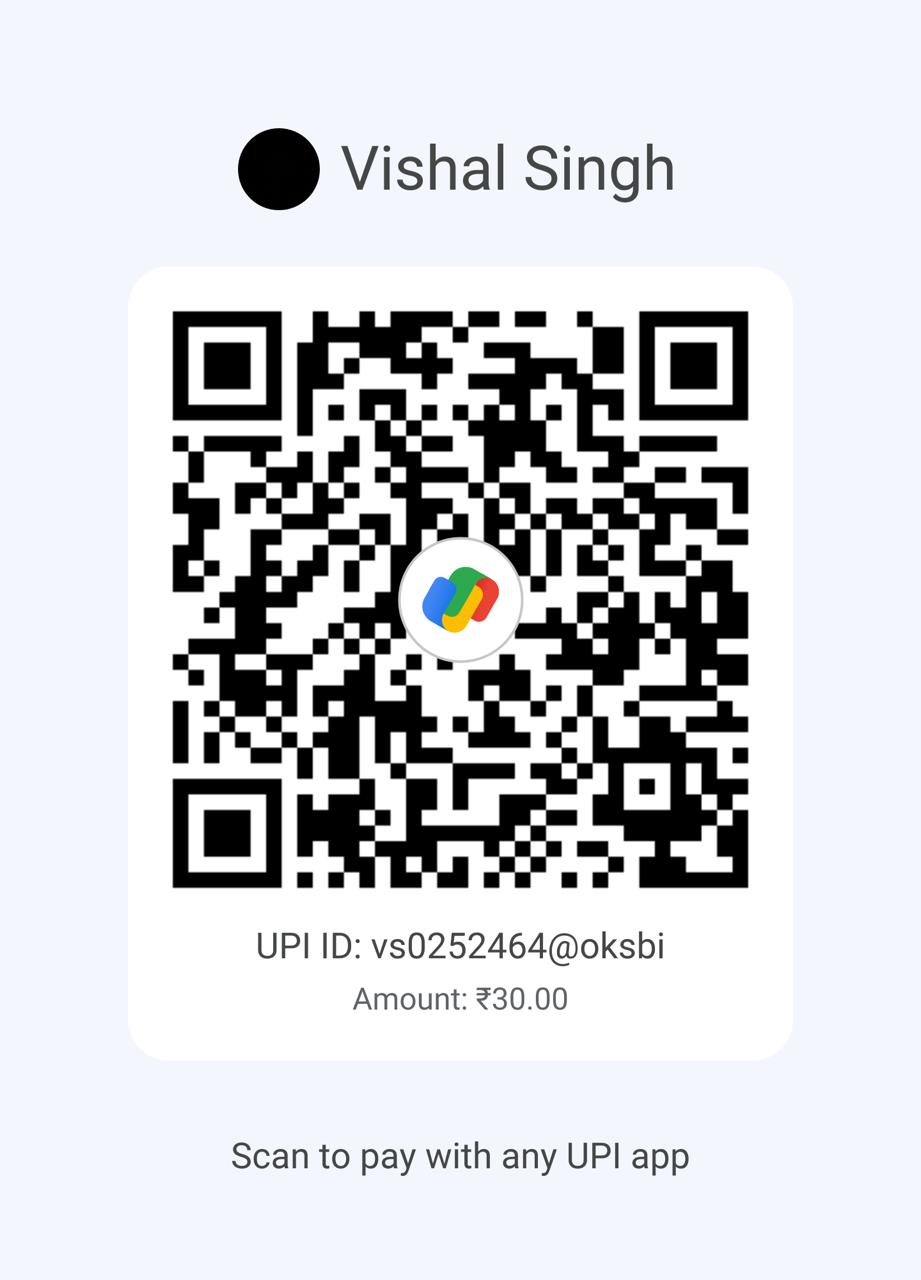
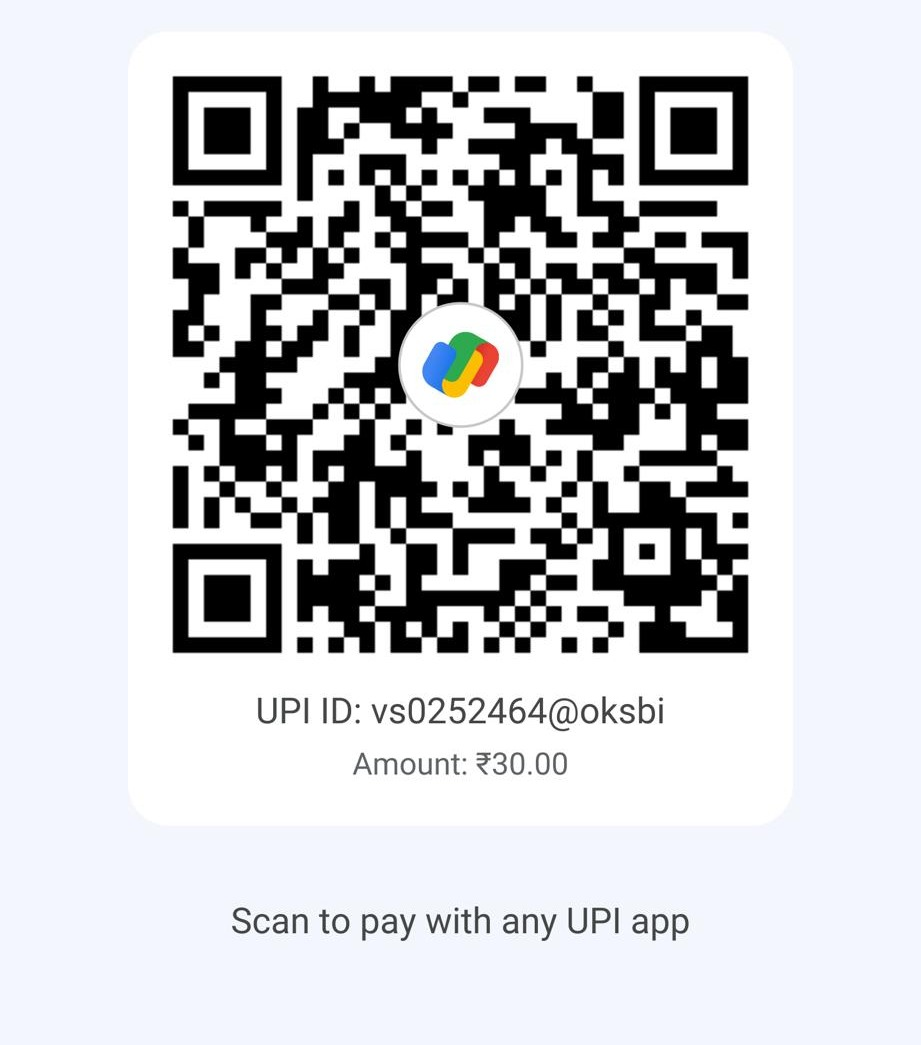
updated payments

Changed region(s): [[0.1824, 0.0612, 0.8208, 0.7962], [0.2432, 0.8574, 0.76, 0.9187]]

diff --git a/components/RegistrationForm.tsx b/components/RegistrationForm.tsx
@@ -126,7 +126,7 @@ export default function RegistrationForm({ teamType }: { teamType: TeamType }) {
   }
 
   if (step === "payment") {
-    const upiLink = `upi://pay?pa=${UPI.id}&pn=${encodeURIComponent(UPI.name)}&am=${team.fee}&cu=INR&tn=${encodeURIComponent(`${EVENT.name} ${team.label}`)}`;
+    const upiLink = `upi://pay?pa=${UPI.id}&pn=${encodeURIComponent(UPI.label)}&am=${team.fee}&cu=INR&tn=${encodeURIComponent(`${EVENT.name} ${team.label}`)}`;
     return (
       <div className="form-wrapper">
         <div className="form-header">
@@ -141,7 +141,7 @@ export default function RegistrationForm({ teamType }: { teamType: TeamType }) {
           <div className="payment">
             <div className="payment-qr">
               {/* eslint-disable-next-line @next/next/no-img-element */}
-              <img src={team.payQr} alt={`UPI QR code to pay ₹${team.fee} to ${UPI.name}`} />
+              <img src={team.payQr} alt={`UPI QR code to pay ₹${team.fee}`} />
               <a className="btn btn-primary payment-app-btn" href={upiLink}>Pay ₹{team.fee} with UPI app</a>
             </div>
             <ol className="payment-steps">
@@ -150,7 +150,7 @@ export default function RegistrationForm({ teamType }: { teamType: TeamType }) {
                 <strong>₹{team.fee}</strong>. On a phone, tap <em>Pay with UPI app</em> instead.
               </li>
               <li>
-                Or pay to UPI ID <strong className="payment-upi">{UPI.id}</strong> ({UPI.name}).
+                Or pay to UPI ID <strong className="payment-upi">{UPI.id}</strong>.
               </li>
               <li>
                 After paying, copy the <strong>UPI transaction ID (UTR)</strong> from your payment app and paste it below.

diff --git a/lib/registration.ts b/lib/registration.ts
@@ -45,7 +45,8 @@ export const TEAM_TYPES = [
 ] as const;
 
 // Where registration fees are paid (shown on the payment step).
-export const UPI = { id: "vs0252464@oksbi", name: "Vishal Singh" };
+// `label` is only a display hint in the UPI app link; payment apps still show the account holder's verified name.
+export const UPI = { id: "vs0252464@oksbi", label: "HUHC Saath 2.0" };
 
 // UPI transaction IDs (UTR) are usually 12 digits; some apps show longer letter-and-number IDs.
 export const normalizeTxnId = (s: string) => s.replace(/\s+/g, "").toUpperCase();
